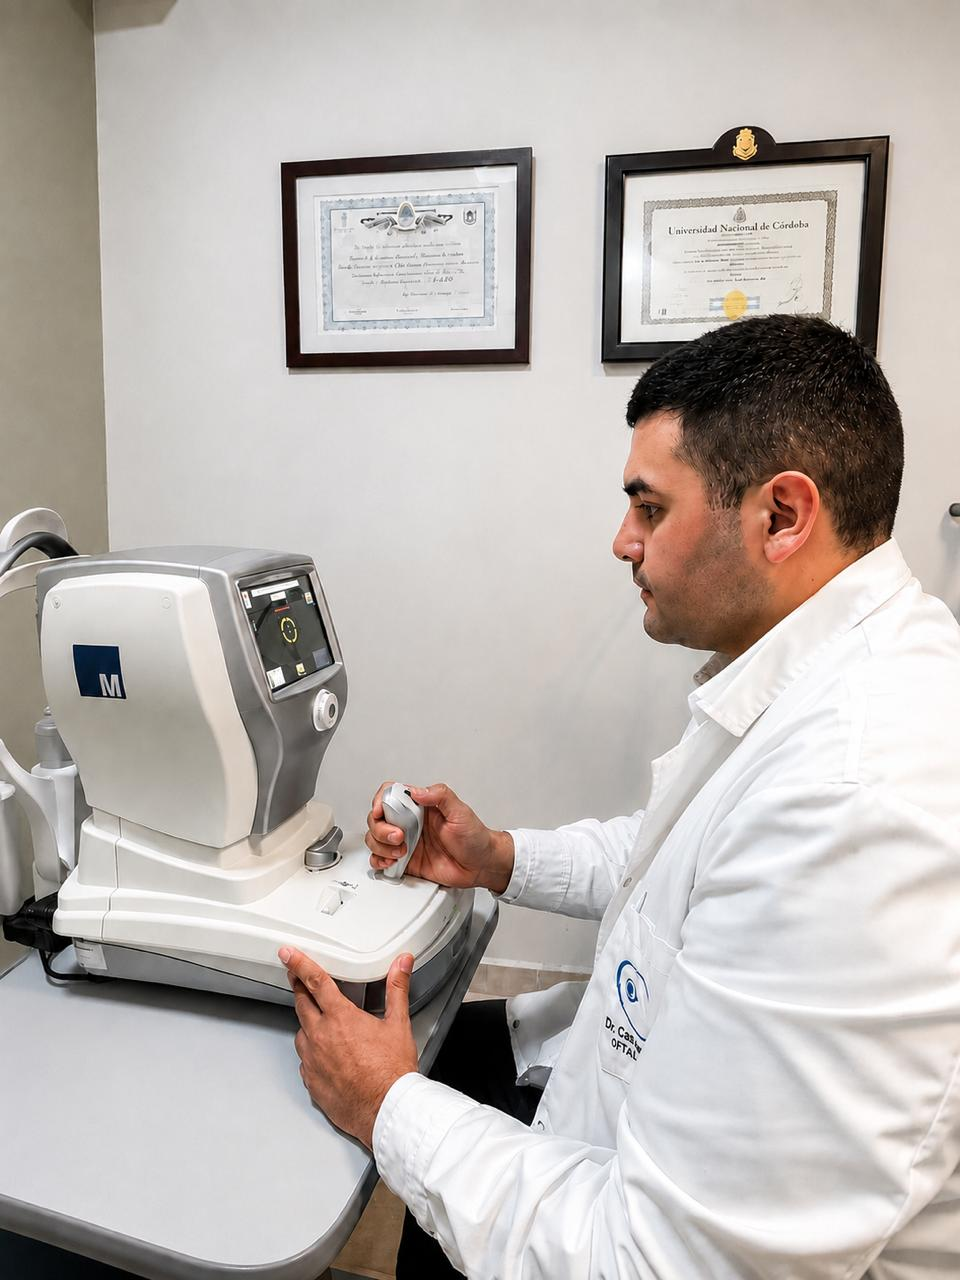
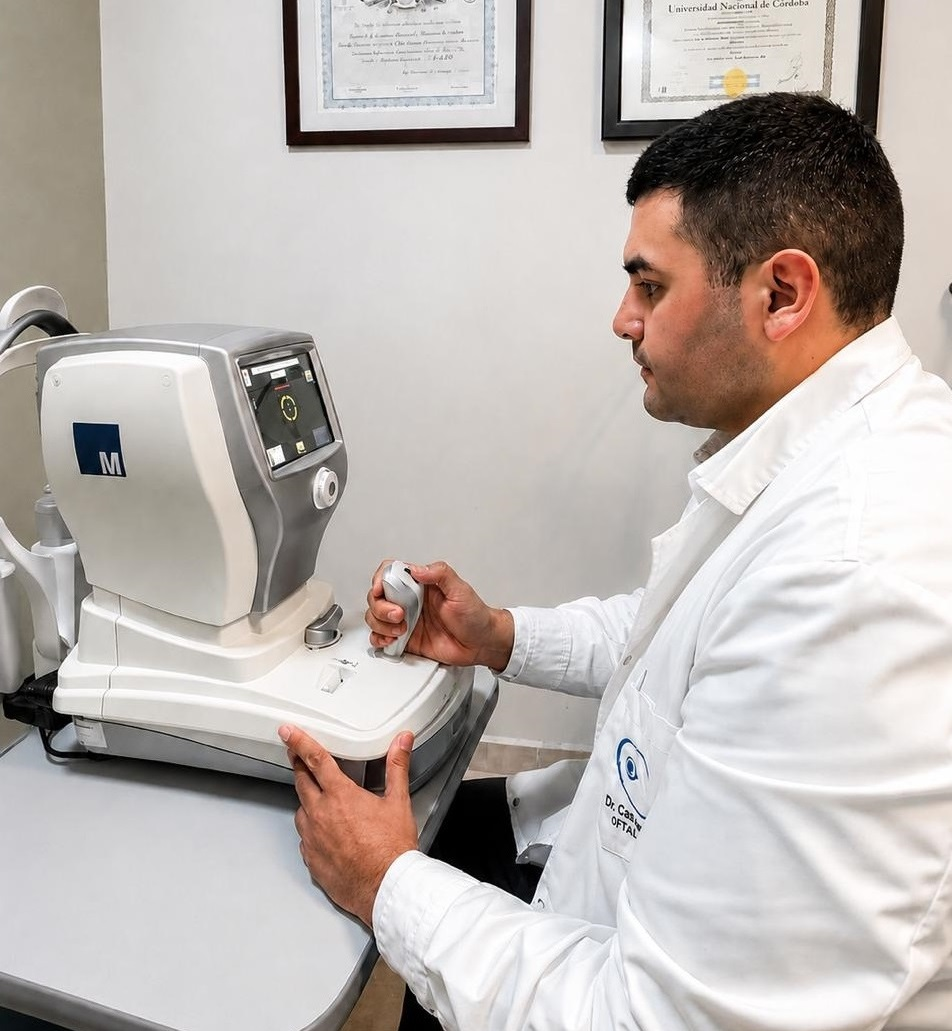
v1.4.1

diff --git a/components/layout/Navbar.tsx b/components/layout/Navbar.tsx
@@ -6,13 +6,16 @@ import { appointmentHref } from '@/lib/whatsapp'
 import Image from 'next/image'
 import Link from 'next/link'
 import { usePathname } from 'next/navigation'
-import { useEffect, useRef, useState } from 'react'
+import { useEffect, useState } from 'react'
+
+function submenuId(href: string) {
+  return `nav-menu-${href.replace(/[^a-z0-9]+/gi, '-').replace(/^-|-$/g, '')}`
+}
 
 export default function Navbar() {
   const [open, setOpen] = useState(false)
-  const [servicesOpen, setServicesOpen] = useState(false)
-  const [mobileServicesOpen, setMobileServicesOpen] = useState(false)
-  const servicesRef = useRef<HTMLDivElement>(null)
+  const [openMenu, setOpenMenu] = useState<string | null>(null)
+  const [mobileOpenMenu, setMobileOpenMenu] = useState<string | null>(null)
   const pathname = usePathname()
   const [scrolled, setScrolled] = useState(false)
   const ctaHref = appointmentHref()
@@ -33,8 +36,8 @@ export default function Navbar() {
     function onKeyDown(event: KeyboardEvent) {
       if (event.key === 'Escape') {
         setOpen(false)
-        setServicesOpen(false)
-        setMobileServicesOpen(false)
+        setOpenMenu(null)
+        setMobileOpenMenu(null)
       }
     }
     document.addEventListener('keydown', onKeyDown)
@@ -43,8 +46,9 @@ export default function Navbar() {
 
   useEffect(() => {
     function onPointerDown(event: PointerEvent) {
-      if (!servicesRef.current?.contains(event.target as Node)) {
-        setServicesOpen(false)
+      const target = event.target as HTMLElement | null
+      if (!target?.closest('[data-nav-submenu]')) {
+        setOpenMenu(null)
       }
     }
     document.addEventListener('pointerdown', onPointerDown)
@@ -65,6 +69,8 @@ export default function Navbar() {
     href: string
   ) {
     setOpen(false)
+    setOpenMenu(null)
+    setMobileOpenMenu(null)
     if (pathname !== '/') return
 
     if (href === '/') {
@@ -116,37 +122,43 @@ export default function Navbar() {
           >
             {nav.links.map((link) =>
               'children' in link ? (
-                <div key={link.href} ref={servicesRef} className="relative flex items-center">
+                <div
+                  key={link.href}
+                  data-nav-submenu
+                  className="relative flex items-center"
+                >
                   <button
                     type="button"
-                    aria-expanded={servicesOpen}
+                    aria-expanded={openMenu === link.href}
                     aria-haspopup="menu"
-                    aria-controls="servicios-menu"
-                    onClick={() => setServicesOpen((value) => !value)}
+                    aria-controls={submenuId(link.href)}
+                    onClick={() =>
+                      setOpenMenu((current) => (current === link.href ? null : link.href))
+                    }
                     className="inline-flex cursor-pointer items-center gap-1 rounded px-1 py-1 text-[15px] font-semibold text-brand-800 transition-colors hover:text-accent-600 focus-visible:outline-none focus-visible:ring-2 focus-visible:ring-accent-600"
                   >
                     {link.label}
                     <svg
                       viewBox="0 0 20 20"
                       fill="currentColor"
-                      className={`h-4 w-4 transition-transform ${servicesOpen ? 'rotate-180' : ''}`}
+                      className={`h-4 w-4 transition-transform ${openMenu === link.href ? 'rotate-180' : ''}`}
                       aria-hidden="true"
                     >
                       <path fillRule="evenodd" d="M5.22 7.97a.75.75 0 0 1 1.06 0L10 11.69l3.72-3.72a.75.75 0 1 1 1.06 1.06l-4.25 4.25a.75.75 0 0 1-1.06 0L5.22 9.03a.75.75 0 0 1 0-1.06Z" clipRule="evenodd" />
                     </svg>
                   </button>
                   <div
-                    id="servicios-menu"
+                    id={submenuId(link.href)}
                     role="menu"
-                    hidden={!servicesOpen}
-                    className="absolute left-0 top-full z-50 w-48 rounded-xl border border-brand-100 bg-white p-2 shadow-xl"
+                    hidden={openMenu !== link.href}
+                    className="absolute left-0 top-full z-50 min-w-56 rounded-xl border border-brand-100 bg-white p-2 shadow-xl"
                   >
                     {link.children.map((child) => (
                       <Link
                         key={child.href}
                         href={child.href}
                         role="menuitem"
-                        onClick={() => setServicesOpen(false)}
+                        onClick={() => setOpenMenu(null)}
                         className="block rounded-lg px-4 py-2.5 text-sm font-semibold text-brand-800 transition-colors hover:bg-brand-50 hover:text-accent-700 focus-visible:outline-none focus-visible:ring-2 focus-visible:ring-accent-600"
                       >
                         {child.label}
@@ -159,7 +171,7 @@ export default function Navbar() {
                   key={link.href}
                   href={link.href}
                   onClick={(event) => {
-                    setServicesOpen(false)
+                    setOpenMenu(null)
                     navigateFromHome(event, link.href)
                   }}
                   className="rounded px-1 py-1 text-[15px] font-semibold text-brand-800 transition-colors hover:text-accent-600 focus-visible:outline-none focus-visible:ring-2 focus-visible:ring-accent-600"
@@ -217,27 +229,31 @@ export default function Navbar() {
                   <>
                     <button
                       type="button"
-                      aria-expanded={mobileServicesOpen}
-                      onClick={() => setMobileServicesOpen((value) => !value)}
+                      aria-expanded={mobileOpenMenu === link.href}
+                      onClick={() =>
+                        setMobileOpenMenu((current) =>
+                          current === link.href ? null : link.href
+                        )
+                      }
                       className="flex w-full cursor-pointer items-center justify-between rounded py-3.5 text-left text-base font-semibold text-brand-800 transition-colors hover:text-accent-600 focus-visible:outline-none focus-visible:ring-2 focus-visible:ring-accent-600"
                     >
                       {link.label}
                       <svg
                         viewBox="0 0 20 20"
                         fill="currentColor"
-                        className={`h-4 w-4 transition-transform ${mobileServicesOpen ? 'rotate-180' : ''}`}
+                        className={`h-4 w-4 transition-transform ${mobileOpenMenu === link.href ? 'rotate-180' : ''}`}
                         aria-hidden="true"
                       >
                         <path fillRule="evenodd" d="M5.22 7.97a.75.75 0 0 1 1.06 0L10 11.69l3.72-3.72a.75.75 0 1 1 1.06 1.06l-4.25 4.25a.75.75 0 0 1-1.06 0L5.22 9.03a.75.75 0 0 1 0-1.06Z" clipRule="evenodd" />
                       </svg>
                     </button>
-                    {mobileServicesOpen && (
-                      <div className="mb-3 flex gap-2 pl-3">
+                    {mobileOpenMenu === link.href && (
+                      <div className="mb-3 flex flex-col gap-1 pl-3">
                         {link.children.map((child) => (
                           <Link
                             key={child.href}
                             href={child.href}
-                            className="rounded-lg bg-white px-3 py-2 text-sm font-semibold text-brand-700 hover:text-accent-700"
+                            className="rounded-lg px-3 py-2 text-sm font-semibold text-brand-700 hover:bg-white hover:text-accent-700"
                             onClick={() => setOpen(false)}
                           >
                             {child.label}

diff --git a/content/site.ts b/content/site.ts
@@ -384,8 +384,8 @@ export const procedures: Procedure[] = [
       'La indicación surge de la evaluación de la retina y, cuando corresponde, de estudios como OCT.',
     treatment:
       'El procedimiento se planifica de forma personalizada y se acompaña con controles posteriores para valorar la respuesta.',
-    image: '/media/retina-control.webp',
-    imageAlt: 'Evaluación de retina previa al tratamiento',
+    image: '/institucional/inyecciones-intravitreas.jpeg',
+    imageAlt: 'Inyección intravítrea en Centro de Ojos Belén',
     dateLabel: 'Según evaluación de retina',
     statusLabel: 'Con indicación médica',
   },
@@ -398,8 +398,8 @@ export const procedures: Procedure[] = [
       'En la consulta definimos si corresponde tratamiento médico o quirúrgico, según el tamaño, los síntomas y la evolución.',
     treatment:
       'Cuando hay indicación quirúrgica, planificamos el procedimiento y realizamos los controles posteriores.',
-    image: '/media/oftalmoscopio-keeler.webp',
-    imageAlt: 'Equipamiento para evaluación oftalmológica',
+    image: '/institucional/cirugia-pterigion.jpeg',
+    imageAlt: 'Cirugía de pterigión en Centro de Ojos Belén',
     dateLabel: 'Según evaluación previa',
     statusLabel: 'Con indicación médica',
   },
@@ -461,8 +461,8 @@ export const conditionPages: ConditionPage[] = [
     ],
     ctaLabel: 'Solicitar control de glaucoma',
     whatsappMessage: 'Hola, quisiera solicitar un control de glaucoma.',
-    image: '/media/tonometro-icare-100.webp',
-    imageAlt: 'Tonómetro iCare para medición de presión intraocular',
+    image: '/institucional/glaucoma.jpeg',
+    imageAlt: 'Simulación de visión en túnel asociada al glaucoma',
   },
   {
     slug: 'queratocono',
@@ -482,8 +482,8 @@ export const conditionPages: ConditionPage[] = [
     ],
     ctaLabel: 'Solicitar topografía corneal',
     whatsappMessage: 'Hola, quisiera solicitar una topografía corneal.',
-    image: '/media/topografia-corneal.webp',
-    imageAlt: 'Topógrafo corneal Tomey TMS-4',
+    image: '/institucional/queratocono.jpeg',
+    imageAlt: 'Perfil corneal con forma cónica característica del queratocono',
   },
   {
     slug: 'retinopatia-diabetica',
@@ -503,8 +503,8 @@ export const conditionPages: ConditionPage[] = [
     ],
     ctaLabel: 'Solicitar control oftalmológico',
     whatsappMessage: 'Hola, quisiera solicitar un control por diabetes.',
-    image: '/media/retina-control.webp',
-    imageAlt: 'Evaluación de retina con oftalmoscopio binocular indirecto',
+    image: '/institucional/retinopatia-diabetica.jpeg',
+    imageAlt: 'Fondo de ojo con signos de retinopatía diabética',
   },
 ]
 

diff --git a/content/navigation.ts b/content/navigation.ts
@@ -10,6 +10,16 @@ export const nav = {
         { label: 'Cirugías', href: '/cirugias' },
       ],
     },
+    {
+      label: 'Patologías',
+      href: '/#especialidades',
+      children: [
+        { label: 'Cirugía de cataratas', href: '/cirugia-de-cataratas' },
+        { label: 'Glaucoma', href: '/glaucoma' },
+        { label: 'Queratocono', href: '/queratocono' },
+        { label: 'Retinopatía diabética', href: '/retinopatia-diabetica' },
+      ],
+    },
     { label: 'Staff médico', href: '/#staff' },
     { label: 'Obras sociales', href: '/#obras-sociales' },
     { label: 'Nosotros', href: '/nosotros' },

diff --git a/content/health-plans.ts b/content/health-plans.ts
@@ -40,6 +40,16 @@ export const healthPlans: HealthPlan[] = [
     logo: '/obras-sociales/medicus.png',
     href: 'https://medicus.com.ar/',
   },
+  {
+    name: 'Jerárquicos Salud',
+    logo: '/obras-sociales/jerarquicos.jpeg',
+    href: 'https://jerarquicos.com/',
+  },
+  {
+    name: 'OSCA',
+    logo: '/obras-sociales/osca.jpeg',
+    href: 'https://oscoca.org.ar/',
+  },
 ]
 
 export const healthPlansSection = {

diff --git a/components/sections/Procedures.tsx b/components/sections/Procedures.tsx
@@ -36,7 +36,7 @@ export default function Procedures() {
               priority
               quality={100}
               sizes="(min-width: 1024px) 45vw, 100vw"
-              className="object-cover object-top"
+              className="object-cover object-[center_14%]"
             />
           </div>
         </div>

diff --git a/components/sections/Studies.tsx b/components/sections/Studies.tsx
@@ -35,7 +35,7 @@ export default function Studies() {
               priority
               quality={100}
               sizes="(min-width: 1024px) 45vw, 100vw"
-              className="object-cover object-top"
+              className="object-cover object-[center_38%]"
             />
           </div>
         </div>
